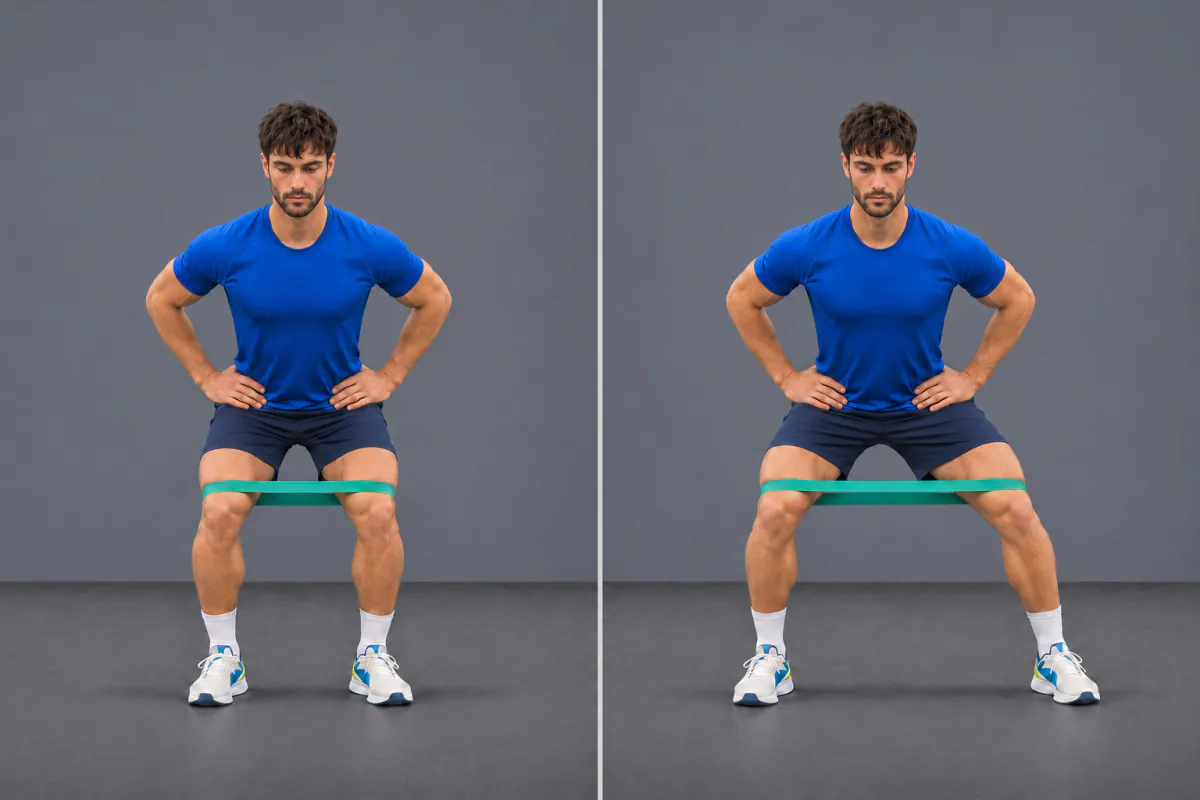
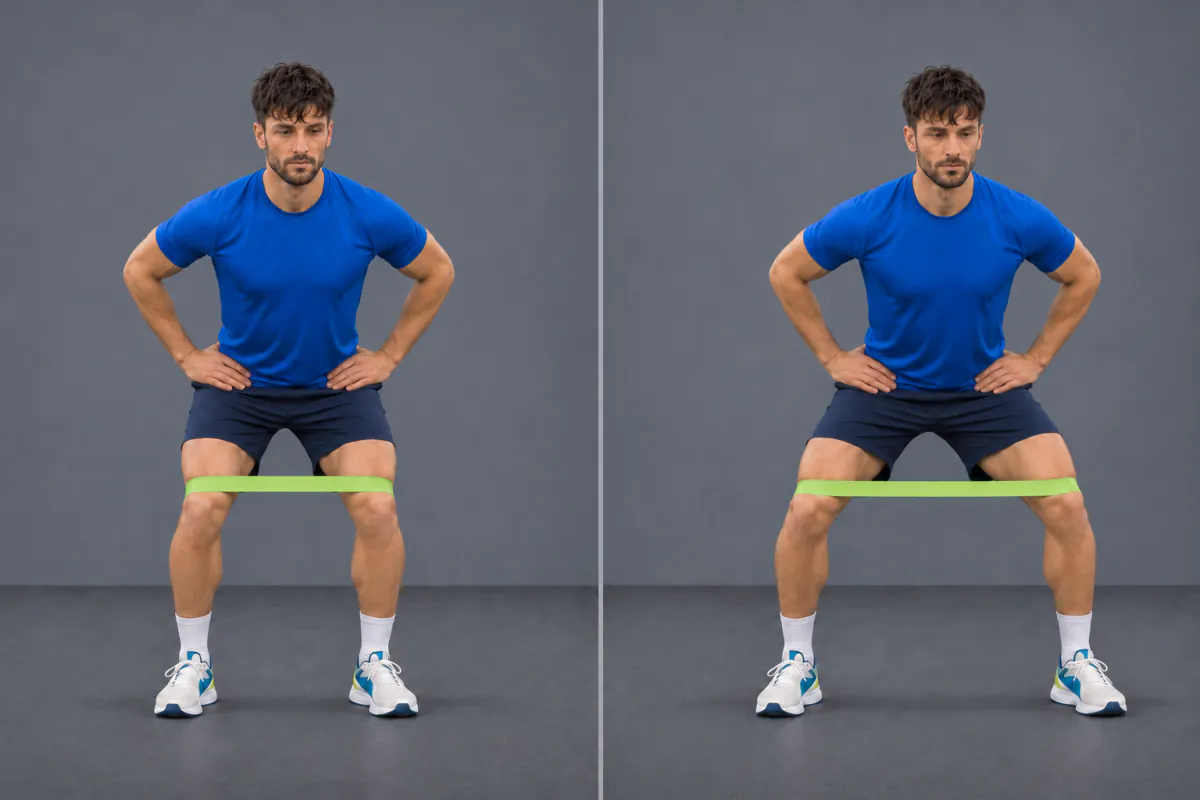
Slike: novo bočno hodanje s gumom (stajno stopalo miruje, glava uspravnija); PROMPTI: sve slike dobre

diff --git a/PROMPTI-ZA-SLIKE.md b/PROMPTI-ZA-SLIKE.md
@@ -7,7 +7,7 @@ Jedna uputa za svaku vježbu, da u aplikaciji svuda bude isti sportaš. Lik i st
 3. Provjeri sliku: ista kamera u oba panela, glava i vrat u liniji s trupom, pogled nikad u kameru, stopala i oprema kao u uputi. Ako nešto ne valja, napiši ChatGPT-u što da ispravi.
 4. Spremi sliku pod nazivom datoteke koji piše uz vježbu (npr. `goblet-squat.jpg`) i pošalji mi je, pa je ugradim u aplikaciju za sve uređaje.
 
-Pregled: 1 za ponoviti, 0 novih, 151 dobra (ukupno 152 vježbe) i 5 naslovnih slika.
+Pregled: 0 za ponoviti, 0 novih, 152 dobre (ukupno 152 vježbe) i 5 naslovnih slika.
 
 ## Naslovne slike za slajdere
 
@@ -58,25 +58,7 @@ One single portrait image (2:3), not two panels. Outdoors on a green football pi
 One single portrait image (2:3), not two panels. Level camera at chest height, slightly wide. The athlete stands relaxed in his home gym holding a hexagonal dumbbell in one hand, looking at the equipment, not at the camera, surrounded by his equipment, neatly arranged: power cage with Olympic bar, plyo box, rack of hexagonal dumbbells, two kettlebells, suspension straps hanging from the cage, medicine ball and tatami mat. Calm overview of all the tools. Keep the lower third of the frame calm and darker for the card's title; the athlete in the upper two thirds.
 ```
 
-## Za ponoviti (1)
-
-Ove slike već su u aplikaciji, ali ih treba napraviti ponovno. Ispod naziva piše što na postojećoj slici ne valja; nova uputa to već ispravlja. Spremi novu sliku pod istim nazivom datoteke.
-
-### Rehab
-
-#### Lateral band walk (Bočno hodanje s mini gumom)
-
-- Datoteka: `bocno-hodanje.jpg`
-- Kamera: level front view at hip height, facing the athlete's chest
-- Što ne valja na postojećoj slici:
-  - glava je i dalje nagnuta naprijed, a pogled ide ravno dolje u vlastita koljena i stopala u oba panela; gotovo isto kao prije
-  - desno stajno stopalo pomaknulo se oko 70 px prema van; obje noge su se raširile umjesto da korakne samo lijeva
-
-```text
-Two panels, identical camera in both: level front view at hip height, facing the athlete's chest, full body in frame, camera locked in place; he steps to his left (image right). LEFT (start): half squat, feet hip-width and parallel, knees bent over the toes, hips back, chest slightly forward, mini band just above the knees and taut; hands on the hips. RIGHT (end): ONLY the left foot has moved: it stepped about 25 cm out to his left (image right); the right foot stays on exactly the same spot of the floor and at exactly the same position in the frame as in the left panel, so the hips and head shift slightly toward image right; stance now wider than the shoulders; same half-squat height, band stretched, knees pushed out over the feet. Form: head held up in line with the slightly forward-leaning trunk, chin level and clearly away from the chest, the top of the head not tipped toward the camera; eyes open, irises clearly visible, looking forward at a point on the floor about 4–5 m ahead and a little to the side of the camera, not down at his own feet, knees or band, and not at the camera; trunk still and level; toes forward, whole feet flat. Equipment: mini band.
-```
-
-## Dobre slike (151)
+## Dobre slike (152)
 
 Ove slike su dobre i ostaju. Uputa je tu samo ako neku ipak poželiš napraviti ponovno.
 
@@ -1269,6 +1251,15 @@ Two panels, identical camera in both: level front view facing the athlete's ches
 
 ```text
 Two panels, identical camera in both: level front view at hip height, facing the athlete's chest, Swedish ladder along the right edge, full body in frame; his left side is next to the ladder, the right leg works. LEFT (start): standing tall, left hand holding a rung at shoulder height, feet hip-width, mini band around both ankles; weight on the left leg, left knee visibly soft, slightly bent about 10°, not locked. RIGHT (end): straight right leg moved out to the side about 25 cm, foot just off the floor, toes pointing straight forward, band taut; left leg unchanged, left knee still slightly bent. Form: head neutral, chin level; eyes lowered to a point on the floor about 3 m in front of him, below the camera, clearly not meeting the lens in either panel; trunk upright, shoulders level over the hips, no lean toward the ladder; left foot flat, toes forward. Equipment: mini band, Swedish ladder.
+```
+
+#### Lateral band walk (Bočno hodanje s mini gumom)
+
+- Datoteka: `bocno-hodanje.jpg`
+- Kamera: level front view at hip height, facing the athlete's chest
+
+```text
+Two panels, identical camera in both: level front view at hip height, facing the athlete's chest, full body in frame, camera locked in place; he steps to his left (image right). LEFT (start): half squat, feet hip-width and parallel, knees bent over the toes, hips back, chest slightly forward, mini band just above the knees and taut; hands on the hips. RIGHT (end): ONLY the left foot has moved: it stepped about 25 cm out to his left (image right); the right foot stays on exactly the same spot of the floor and at exactly the same position in the frame as in the left panel, so the hips and head shift slightly toward image right; stance now wider than the shoulders; same half-squat height, band stretched, knees pushed out over the feet. Form: head held up in line with the slightly forward-leaning trunk, chin level and clearly away from the chest, the top of the head not tipped toward the camera; eyes open, irises clearly visible, looking forward at a point on the floor about 4–5 m ahead and a little to the side of the camera, not down at his own feet, knees or band, and not at the camera; trunk still and level; toes forward, whole feet flat. Equipment: mini band.
 ```
 
 #### Adukcija kuka na boku (Side-lying hip adduction)
